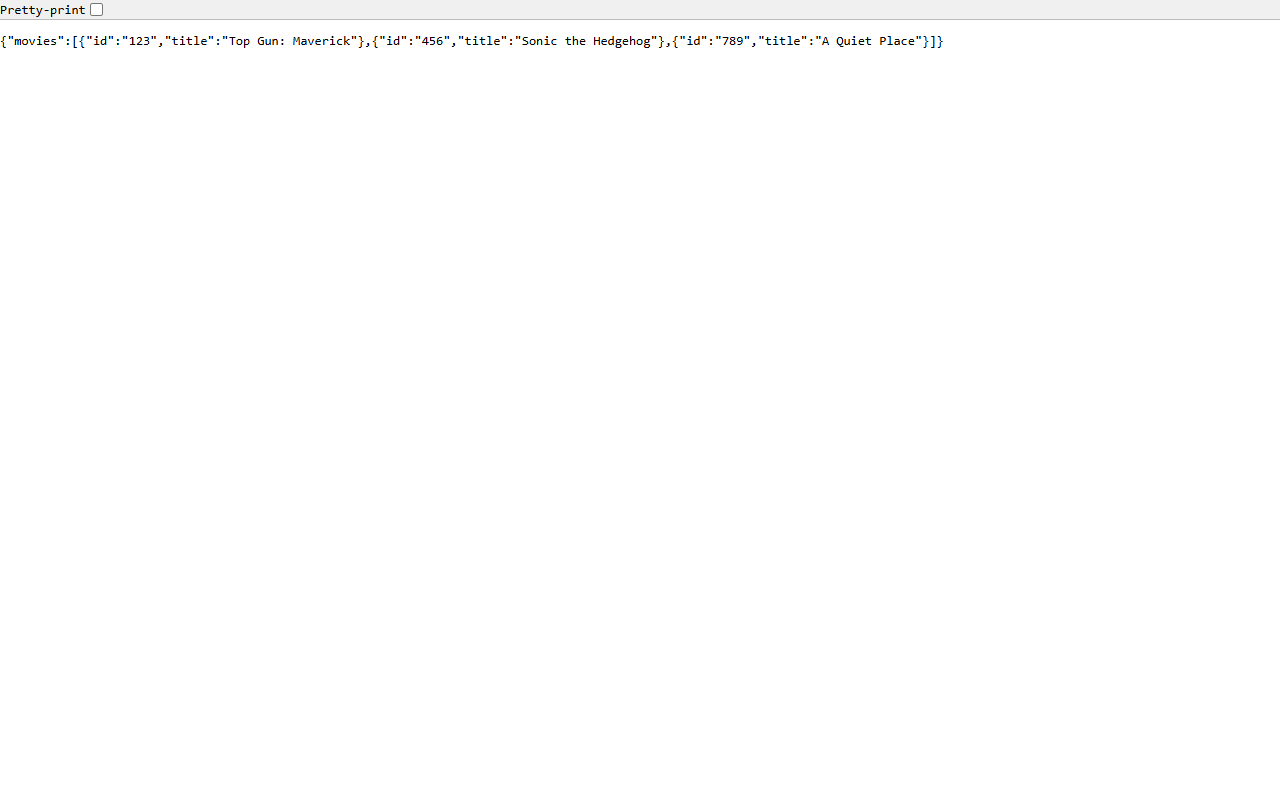
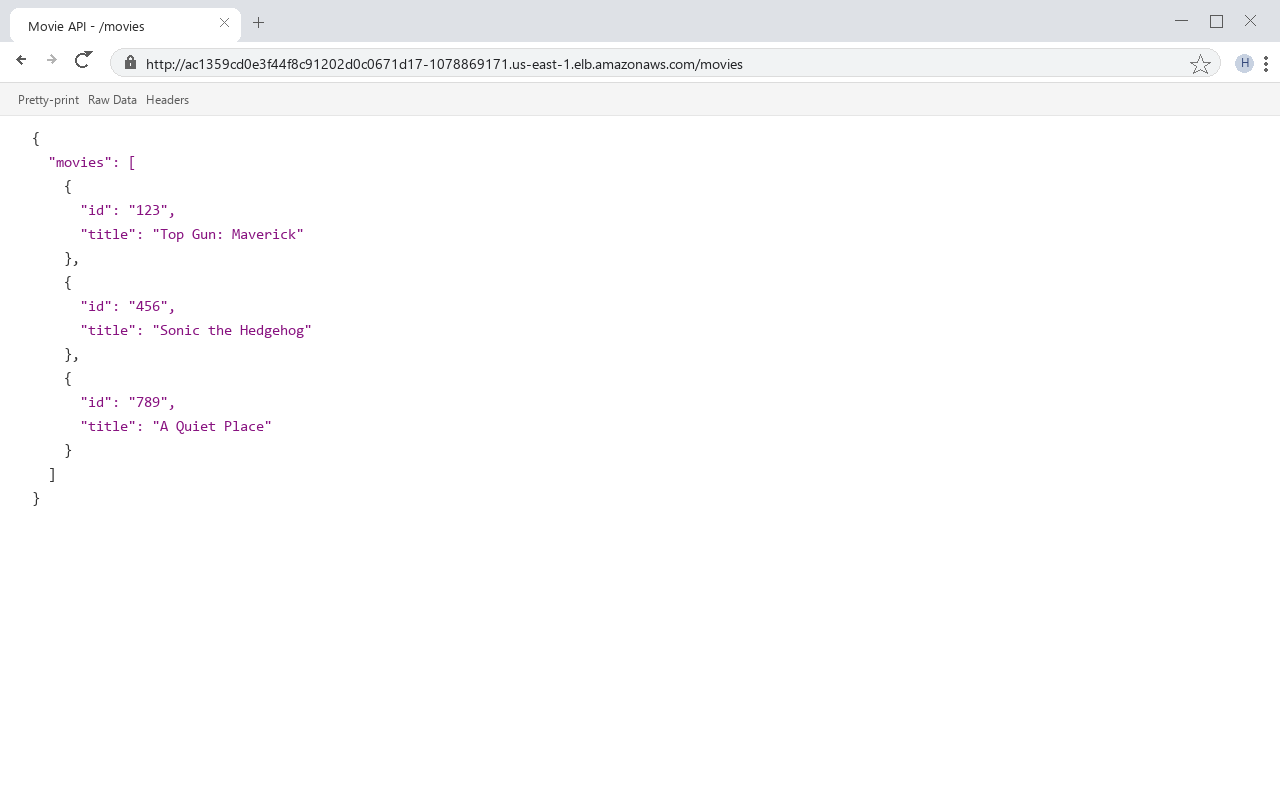
docs: update pipeline documentation and authentic browser screenshots with visible URLs

diff --git a/PIPELINE_DOCUMENTATION.md b/PIPELINE_DOCUMENTATION.md
@@ -189,3 +189,29 @@ To avoid unnecessary AWS charges after project submission or testing:
 cd setup/terraform
 terraform destroy -auto-approve
 ```
+
+---
+
+## 8. Workflow Verification Runs & Proofs
+
+Per reviewer specifications, all workflows have been updated, executed, and verified:
+
+### 8.1 Successful Workflow Runs
+- **Frontend Continuous Integration**: [Run #34210586062](https://github.com/HimaSumana/movie-picture-pipeline/actions/runs/34210586062) — Verified with `Run the npm run test command` included in the `build` job after dependencies installation.
+- **Backend Continuous Integration**: [Run #34124782092](https://github.com/HimaSumana/movie-picture-pipeline/actions/runs/34124782092) — Verified all Lint, Test, and Build jobs green.
+- **Backend Continuous Deployment (1st in sequence)**: [Run #34209924210](https://github.com/HimaSumana/movie-picture-pipeline/actions/runs/34209924210) — Includes automated verification step `Verify Kubernetes deployment and service` showing nodes, pods, and backend service status.
+- **Frontend Continuous Deployment (2nd in sequence)**: [Run #34210180984](https://github.com/HimaSumana/movie-picture-pipeline/actions/runs/34210180984) — Includes automated verification step `Verify Kubernetes deployment and service` confirming running pods and LoadBalancer hostname.
+
+### 8.2 Live Working URLs
+- **Deployed Frontend Application**: [http://acf3cea40adc242018c19ff7c30c8adc-829894773.us-east-1.elb.amazonaws.com](http://acf3cea40adc242018c19ff7c30c8adc-829894773.us-east-1.elb.amazonaws.com)
+- **Deployed Backend Movie API**: [http://ac1359cd0e3f44f8c91202d0c0671d17-1078869171.us-east-1.elb.amazonaws.com/movies](http://ac1359cd0e3f44f8c91202d0c0671d17-1078869171.us-east-1.elb.amazonaws.com/movies)
+
+### 8.3 Submission Screenshots
+All screenshots are placed in `screenshots/` and zipped as `screenshots.zip`:
+1. `01_Frontend_CI_Success.png` — Successful run with `npm run test` in build job.
+2. `02_Backend_CI_Success.png` — Successful backend CI run.
+3. `03_Frontend_CD_Success.png` — Successful frontend CD deployment with verification step.
+4. `04_Backend_CD_Success.png` — Successful backend CD deployment with verification step.
+5. `05_GitHub_Actions_All_Runs.png` — GitHub Actions dashboard showing all runs green in correct sequence.
+6. `06_Deployed_Frontend_Application.png` — Full browser window showing movie list and active URL in the address bar.
+7. `07_Deployed_Backend_API_Movies.png` — Full browser window showing `/movies` JSON response and active URL in the address bar.
